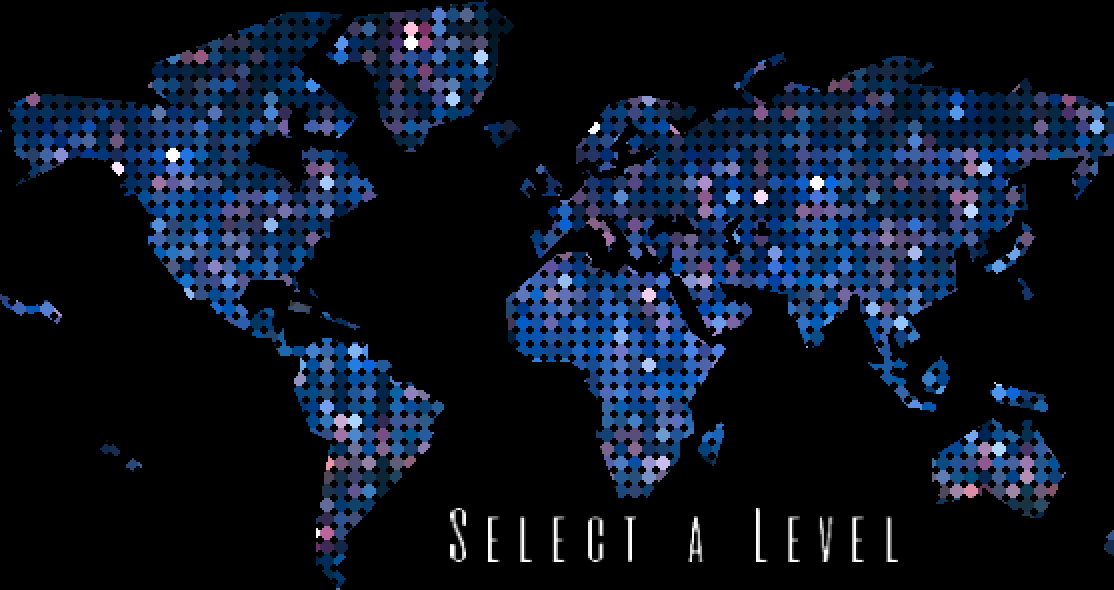
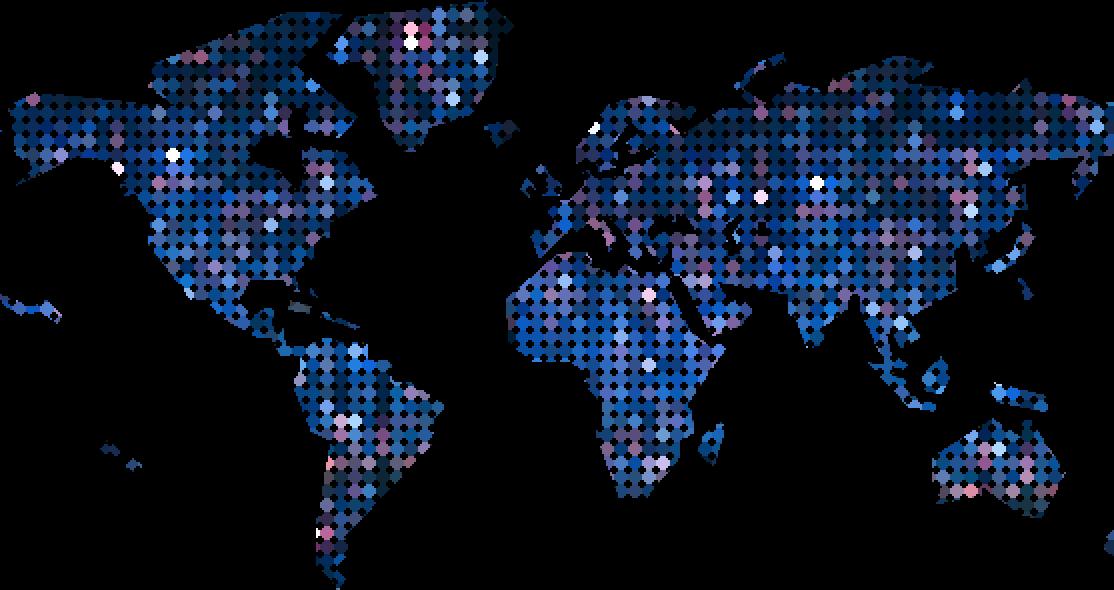
Add files via upload
I changed the background of the LevelSelect to use the map with no text.
I created a method to display text "Select A Level" using the provided game fonts.
I created a GameState named STORYDIALOGUE which will be a state to represent the game is displaying text related to the story.
I set up a class that will later be implemented to handle displaying texts for in game dialogue.

I temporarily implemented the "Money Bag" graphic to play over the falling ball in the level.

Changed region(s): [[0.3968, 0.8542, 0.5799, 0.9458], [0.6715, 0.8847, 0.8241, 0.9458], [0.6104, 0.8847, 0.6409, 0.9458]]

diff --git a/src/LevelSelect.cpp b/src/LevelSelect.cpp
@@ -30,17 +30,54 @@ void LevelSelect::drawBackground(sf::RenderWindow *App){
  */
 
 void LevelSelect::drawLevelDots(sf::RenderWindow *App){
+
 	  sf::Texture levelDot;
     if (!levelDot.loadFromFile("../data/LevelDot.png")) {
 
     }
 
     //Sets the size, texture, and coordinates of the level 1 dot
+    
     this -> level1.setRadius(25);
     this -> level1.setTexture(&levelDot);
-    this -> level1.setPosition(190, 246);
+    this -> level1.setPosition(190, 243);
 
-    App -> draw(level1);
+    this -> level2.setRadius(25);
+    this -> level2.setTexture(&levelDot);
+    this -> level2.setPosition(90, 173);
+
+
+
+
+
+    if(this -> levelUnlocked >= 1){
+        App -> draw(level1);
+    }
+    if(this -> levelUnlocked >= 2){
+        App -> draw(level2);
+    }
+    drawText();
+    App -> draw(titleText);
+}
+
+
+/*
+*   Draws the text on the level select screen using the game font
+*
+*/
+void LevelSelect::drawText(){
+    if (!font.loadFromFile("../data/aliensCows.ttf"))
+    {
+    // error...
+    }
+
+    
+    titleText.setFont(font);
+    titleText.setCharacterSize(74); 
+    titleText.setString("Select A Level");
+    titleText.setPosition(380,520);
+    titleText.setFillColor(sf::Color::White);
+
 }
 
 void LevelSelect::availableLevels(){
@@ -54,11 +91,16 @@ void LevelSelect::availableLevels(){
  */
 void LevelSelect::levelClick(sf::Vector2i mousePosition, GameState &state){
     //Get the level selection dot coordinaes
-    sf::FloatRect boundOne = this -> level1.getGlobalBounds();
+    sf::FloatRect bound1 = this -> level1.getGlobalBounds();
+    sf::FloatRect bound2 = this -> level2.getGlobalBounds();
+    sf::FloatRect bound3 = this -> level3.getGlobalBounds();
 
     //If the mouse clicks on the level 1 selector dot then change the state to game loading.
-	  if(boundOne.contains(mousePosition.x, mousePosition.y)){
-      state.setState(GameState::State::LOADING);
-    }
+    if(bound1.contains(mousePosition.x, mousePosition.y)){
+        state.setState(GameState::State::LOADING);
+        }
 
+    if(bound2.contains(mousePosition.x, mousePosition.y)){
+        state.setState(GameState::State::LOADING);
+        }
 }

diff --git a/src/StolenObject.cpp b/src/StolenObject.cpp
@@ -19,7 +19,12 @@ StolenObject::StolenObject(float x, float y, int radius){
 
 	this -> radius = radius;
 
-	this -> color = sf::Color::White;
+
+	if(!this -> objTexture.loadFromFile("../data/MoneyBagColor.png")){
+
+	}
+
+	// this -> color = sf::Color::Red;
 
 	float r = (float) radius;
 }
@@ -34,9 +39,9 @@ void StolenObject::setWorld(b2World* World){
 
 	//Box2D body with a dynamic body so it moves.
 	b2BodyDef BodyDef;
-  BodyDef.position = b2Vec2(this -> xCoord/SCALE, this -> yCoord/SCALE);
-  BodyDef.type = b2_dynamicBody;
-  this -> Body = this -> World -> CreateBody(&BodyDef);
+  	BodyDef.position = b2Vec2(this -> xCoord/SCALE, this -> yCoord/SCALE);
+  	BodyDef.type = b2_dynamicBody;
+  	this -> Body = this -> World -> CreateBody(&BodyDef);
 
 	//Shape is a circle with radius r
 	b2CircleShape Shape;

diff --git a/include/LevelSelect.h b/include/LevelSelect.h
@@ -8,11 +8,17 @@ namespace escape{
 	class LevelSelect{
 
 		private:
-			int levelUnlocked = 1;
+			int levelUnlocked = 5;
+			sf::Text titleText;
+			sf::Font font;
 
 		  sf::Sprite sprite;
 
 		  sf::CircleShape level1;
+		  sf::CircleShape level2;
+		  sf::CircleShape level3;
+		  sf::CircleShape level4;
+		  sf::CircleShape level5;
 
 			sf::RenderWindow *App;
 			GameState *state;
@@ -29,7 +35,8 @@ namespace escape{
 			void drawBackground(sf::RenderWindow *App);
 			void drawLevelDots(sf::RenderWindow *App);
 			void availableLevels();
-      void levelClick(sf::Vector2i mousePosition, GameState &state);
+			void drawText();
+      		void levelClick(sf::Vector2i mousePosition, GameState &state);
 	};
 }
 #endif

diff --git a/src/GameView.cpp b/src/GameView.cpp
@@ -84,7 +84,8 @@ void GameView::update(Level &level){
 	sf::CircleShape circle(level.stolenObject.radius); //TODO: fix
 	circle.setOrigin(level.stolenObject.radius, level.stolenObject.radius);
 	circle.setPosition(level.stolenObject.xCoord, level.stolenObject.yCoord);
-	circle.setFillColor(level.stolenObject.color);
+	circle.setTexture(&level.stolenObject.objTexture);
+	// circle.setFillColor(level.stolenObject.color);
 	//TODO: Smooth it out when we pick a texture
   this -> drawCircle(circle);
 

diff --git a/include/Dialogue.cpp b/include/Dialogue.cpp
@@ -1,0 +1,27 @@
+#include "Dialogue.h"
+
+using namespace escape;
+
+Dialogue::Dialogue(){
+
+}
+
+void Dialogue::playStory(sf::RenderWindow *App, GameState *state){
+
+	if (!font.loadFromFile("../Data/aliensCows.ttf"))
+	{
+    // error...
+	}
+
+	sf::Text text;
+
+	text.setFont(font);
+	text.setCharacterSize(24); 
+	text.setFillColor(sf::Color::White);
+	
+	//Set text to xml story dialogue
+	
+	App -> draw(text);
+
+
+}

diff --git a/src/Dialogue.cpp b/src/Dialogue.cpp
@@ -1,0 +1,27 @@
+#include "Dialogue.h"
+
+using namespace escape;
+
+Dialogue::Dialogue(){
+
+}
+
+void Dialogue::playStory(sf::RenderWindow *App, GameState *state){
+
+	if (!font.loadFromFile("../data/aliensCows.ttf"))
+	{
+    // error...
+	}
+
+	sf::Text text;
+
+	text.setFont(font);
+	text.setCharacterSize(24); 
+	text.setFillColor(sf::Color::White);
+	
+	//Set text to xml story dialogue
+	
+	App -> draw(text);
+
+
+}

diff --git a/include/Dialogue.h b/include/Dialogue.h
@@ -1,0 +1,24 @@
+#ifndef DIALOGUE_H
+#define DIALOGUE_H
+
+#include <SFML/Graphics.hpp>
+#include "GameState.h"
+
+namespace escape{
+	class Dialogue{
+	private:
+		GameState *state;
+		sf::Sprite sprite;
+		sf::RenderWindow *App;
+		sf::Font font;
+
+
+	
+	public:
+		Dialogue();
+		void playStory(sf::RenderWindow *App, GameState *state);
+		void drawBackground(sf::RenderWindow *App);	
+
+	};
+}
+#endif

diff --git a/include/StolenObject.h b/include/StolenObject.h
@@ -13,6 +13,7 @@ namespace escape {
 			b2World* World;
 
 
+
 		public:
       StolenObject();
 			StolenObject(float x, float y, int radius);
@@ -23,6 +24,7 @@ namespace escape {
 			int radius;//TODO: make this pertain to other shapes
 
 			sf::Color color;
+			sf::Texture objTexture;
 
 			void setWorld(b2World* World);
 			void updatePosition();
